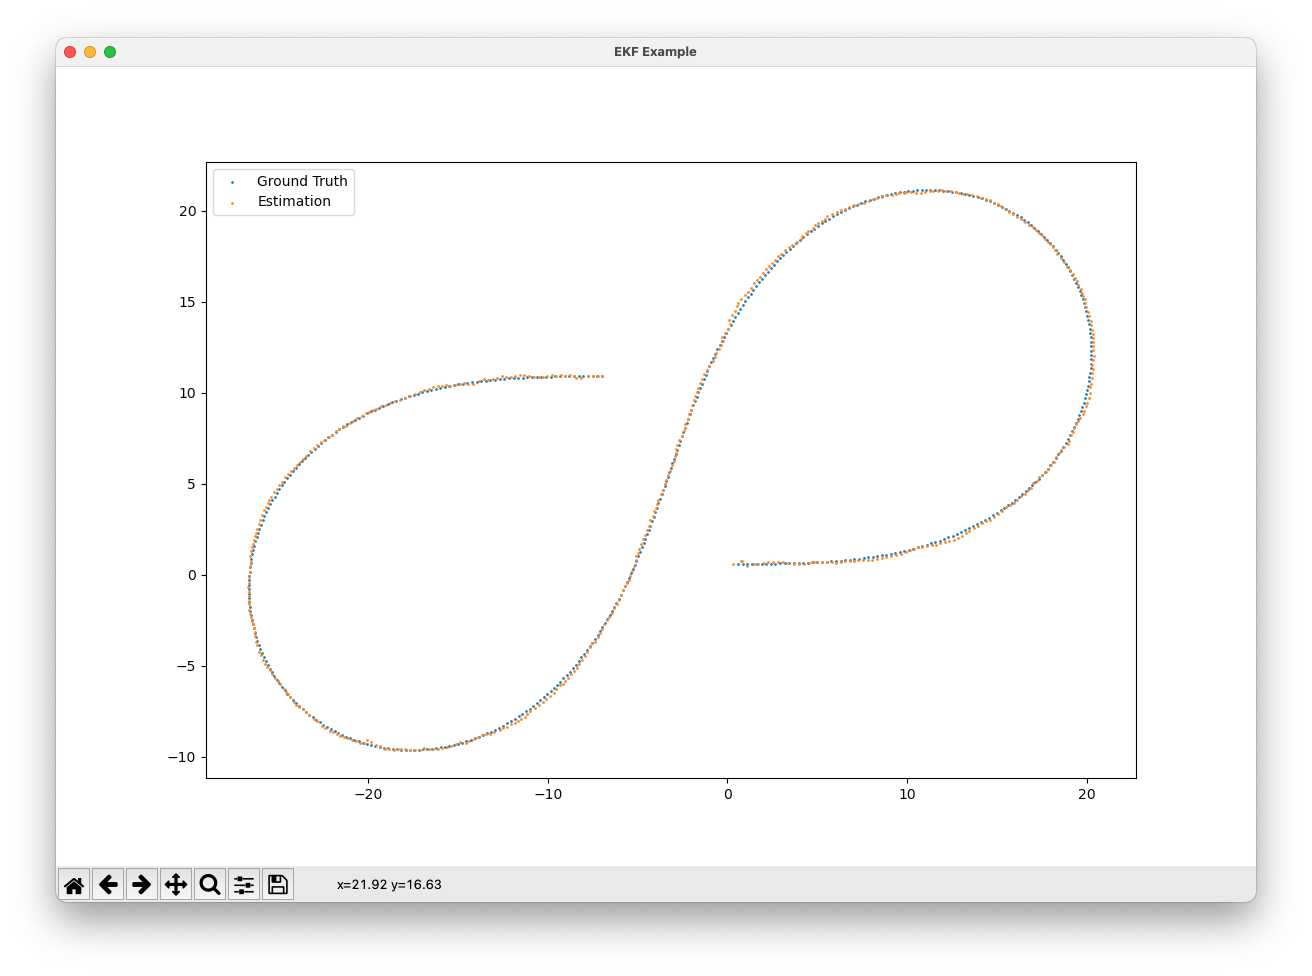
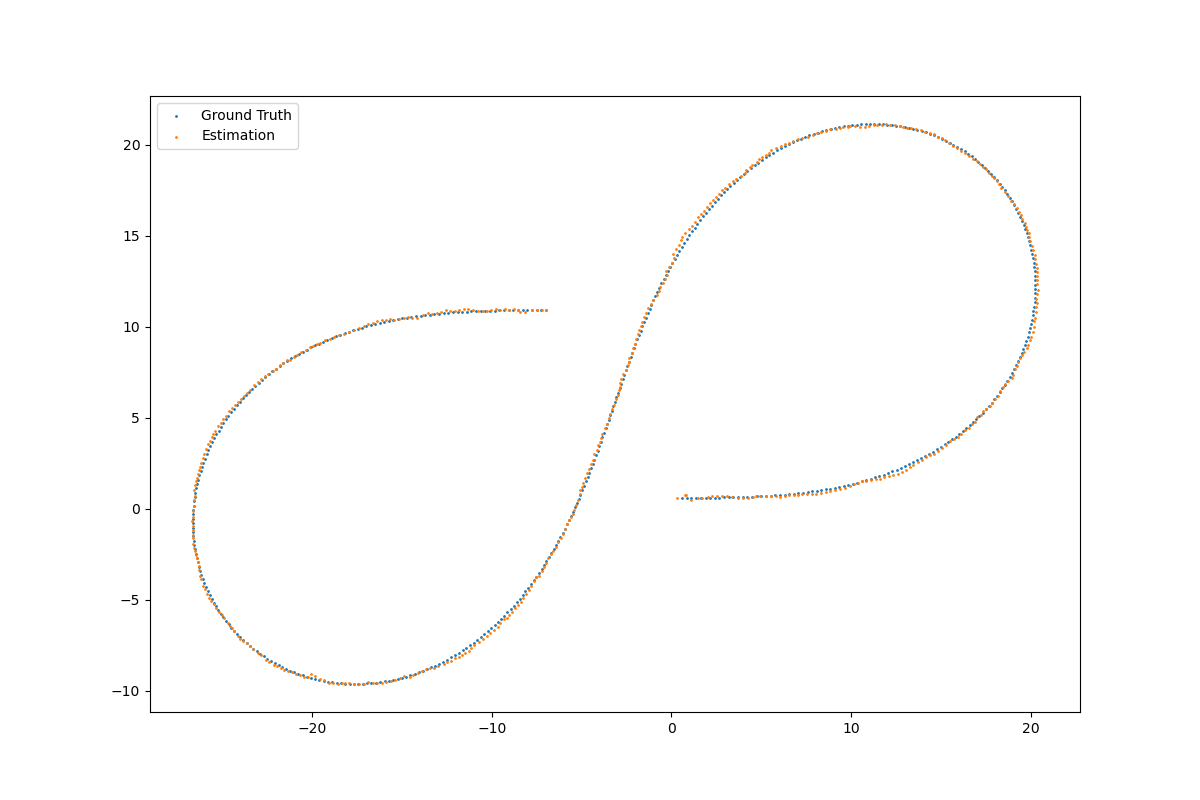
Add files via upload
Complete week 3 assignment.

diff --git a/code/week-3/EKF/kalman_filter.py b/code/week-3/EKF/kalman_filter.py
@@ -1,16 +1,19 @@
 import numpy as np
+import math
 from math import sqrt
 from math import atan2
-from tools import Jacobian
+from tools import Jacobian, normalize
 
 class KalmanFilter:
     def __init__(self, x_in, P_in, F_in, H_in, R_in, Q_in):
-        self.x = x_in
-        self.P = P_in
-        self.F = F_in
-        self.H = H_in
-        self.R = R_in
-        self.Q = Q_in
+        # State variable and its covariance
+        self.x = x_in # bar mu
+        self.P = P_in # bar Sigma(covariance matrix)
+        # System model
+        self.F = F_in 
+        self.H = H_in 
+        self.R = R_in 
+        self.Q = Q_in 
 
     def predict(self):
         self.x = np.dot(self.F, self.x)
@@ -24,12 +27,45 @@ class KalmanFilter:
         self.P = self.P - np.dot(np.dot(K, self.H), self.P)
 
     def update_ekf(self, z):
-        # TODO: Implement EKF update for radar measurements
-        # 1. Compute Jacobian Matrix H_j
-        # 2. Calculate S = H_j * P' * H_j^T + R
-        # 3. Calculate Kalman gain K = H_j * P' * Hj^T + R
-        # 4. Estimate y = z - h(x')
+        #########################################################
+        # TODO: Implement EKF update for radar measurements     #
+        # 1. Compute Jacobian Matrix H_j                        #
+        # 2. Calculate S = H_j * P' * H_j^T + R                 #
+        # 3. Calculate Kalman gain K = H_j * P' * Hj^T + R      #
+        # 4. Estimate y = z - h(x')                             #
+        # 5. Normalize phi so that it is between -PI and +PI    #
+        # 6. Calculate new estimates                            #
+        #    x = x' + K * y                                     #
+        #    P = (I - K * H_j) * P                              #
+        #########################################################
+        
+        # 1. Compute Jacobian Matrix H_j     
+        H_j = Jacobian(self.x)
+        
+        # 2. Calculate S = H_j * P' * H_j^T + R   
+        # 3. Calculate Kalman gain K = P * H_j^T * S^-1  
+        S = np.dot(np.dot(H_j, self.P), H_j.T) + self.R  
+        K = np.dot(np.dot(self.P, H_j.T), np.linalg.inv(S))
+        
+        # 4. Estimate y = z - h(x') 
+        px, py, vx, vy = self.x
+        c1 = (px * px) + (py * py)
+        c2 = sqrt(c1)
+        
+        rho = c2
+        phi = np.arctan2(py, px)
+        rho_dot = (px * vx + py * vy) / c2 
+        h_of_x = np.array([rho, phi, rho_dot], dtype=np.float32)
+        
+        y = z - h_of_x
+        
         # 5. Normalize phi so that it is between -PI and +PI
-        # 6. Calculate new estimates
-        #    x = x' + K * y
+        y[1] = normalize(y[1], -math.pi, math.pi)
+
+        # 6. Calculate new estimates     
+        #    x = x' + K * y          
         #    P = (I - K * H_j) * P
+        self.x = self.x + np.dot(K, y)
+        self.P = self.P - np.dot(np.dot(K, H_j), self.P)
+        
+

diff --git a/code/week-3/EKF/tools.py b/code/week-3/EKF/tools.py
@@ -1,5 +1,5 @@
 import numpy as np
-from math import sqrt
+from math import sqrt, floor, ceil
 
 def Jacobian(x):
     px, py, vx, vy = x
@@ -21,3 +21,33 @@ def Jacobian(x):
          py / c2]
     ])
     return Hj
+
+
+def normalize(num, lower, upper, b=False):
+    res = num
+    if not b:
+        if lower >= upper:
+            raise ValueError("Invalid lower and upper limits: (%s, %s)" %
+                             (lower, upper))
+
+        res = num
+        if num > upper or num == lower:
+            num = lower + abs(num + upper) % (abs(lower) + abs(upper))
+        if num < lower or num == upper:
+            num = upper - abs(num - lower) % (abs(lower) + abs(upper))
+
+        res = lower if res == upper else num
+    else:
+        total_length = abs(lower) + abs(upper)
+        if num < -total_length:
+            num += ceil(num / (-2 * total_length)) * 2 * total_length
+        if num > total_length:
+            num -= floor(num / (2 * total_length)) * 2 * total_length
+        if num > upper:
+            num = total_length - num
+        if num < lower:
+            num = -total_length - num
+
+        res = num * 1.0  # Make all numbers float, to be consistent
+
+    return res
